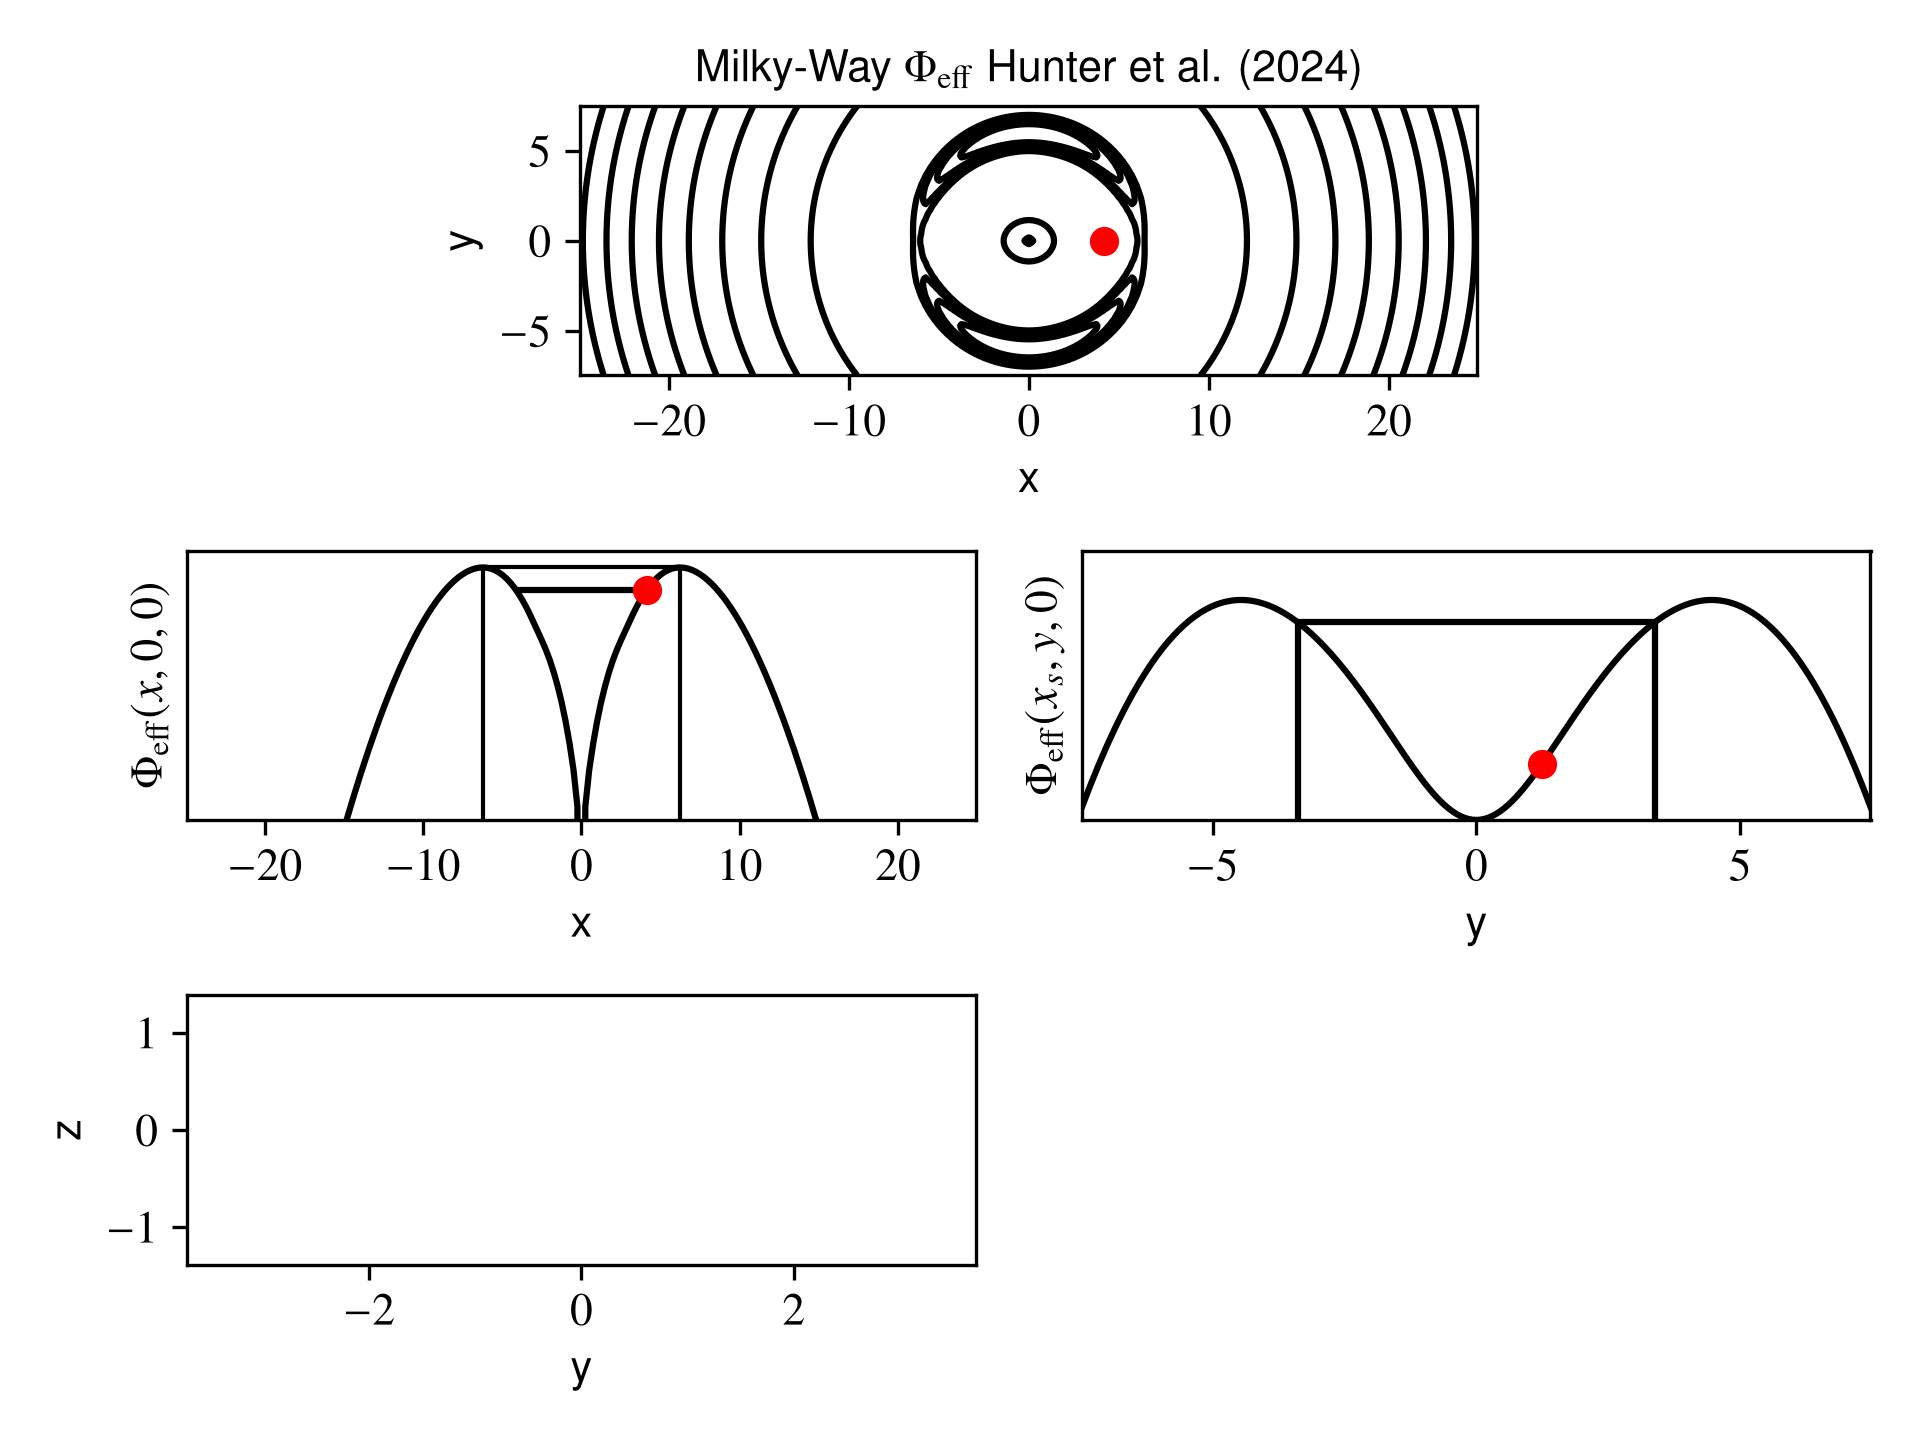
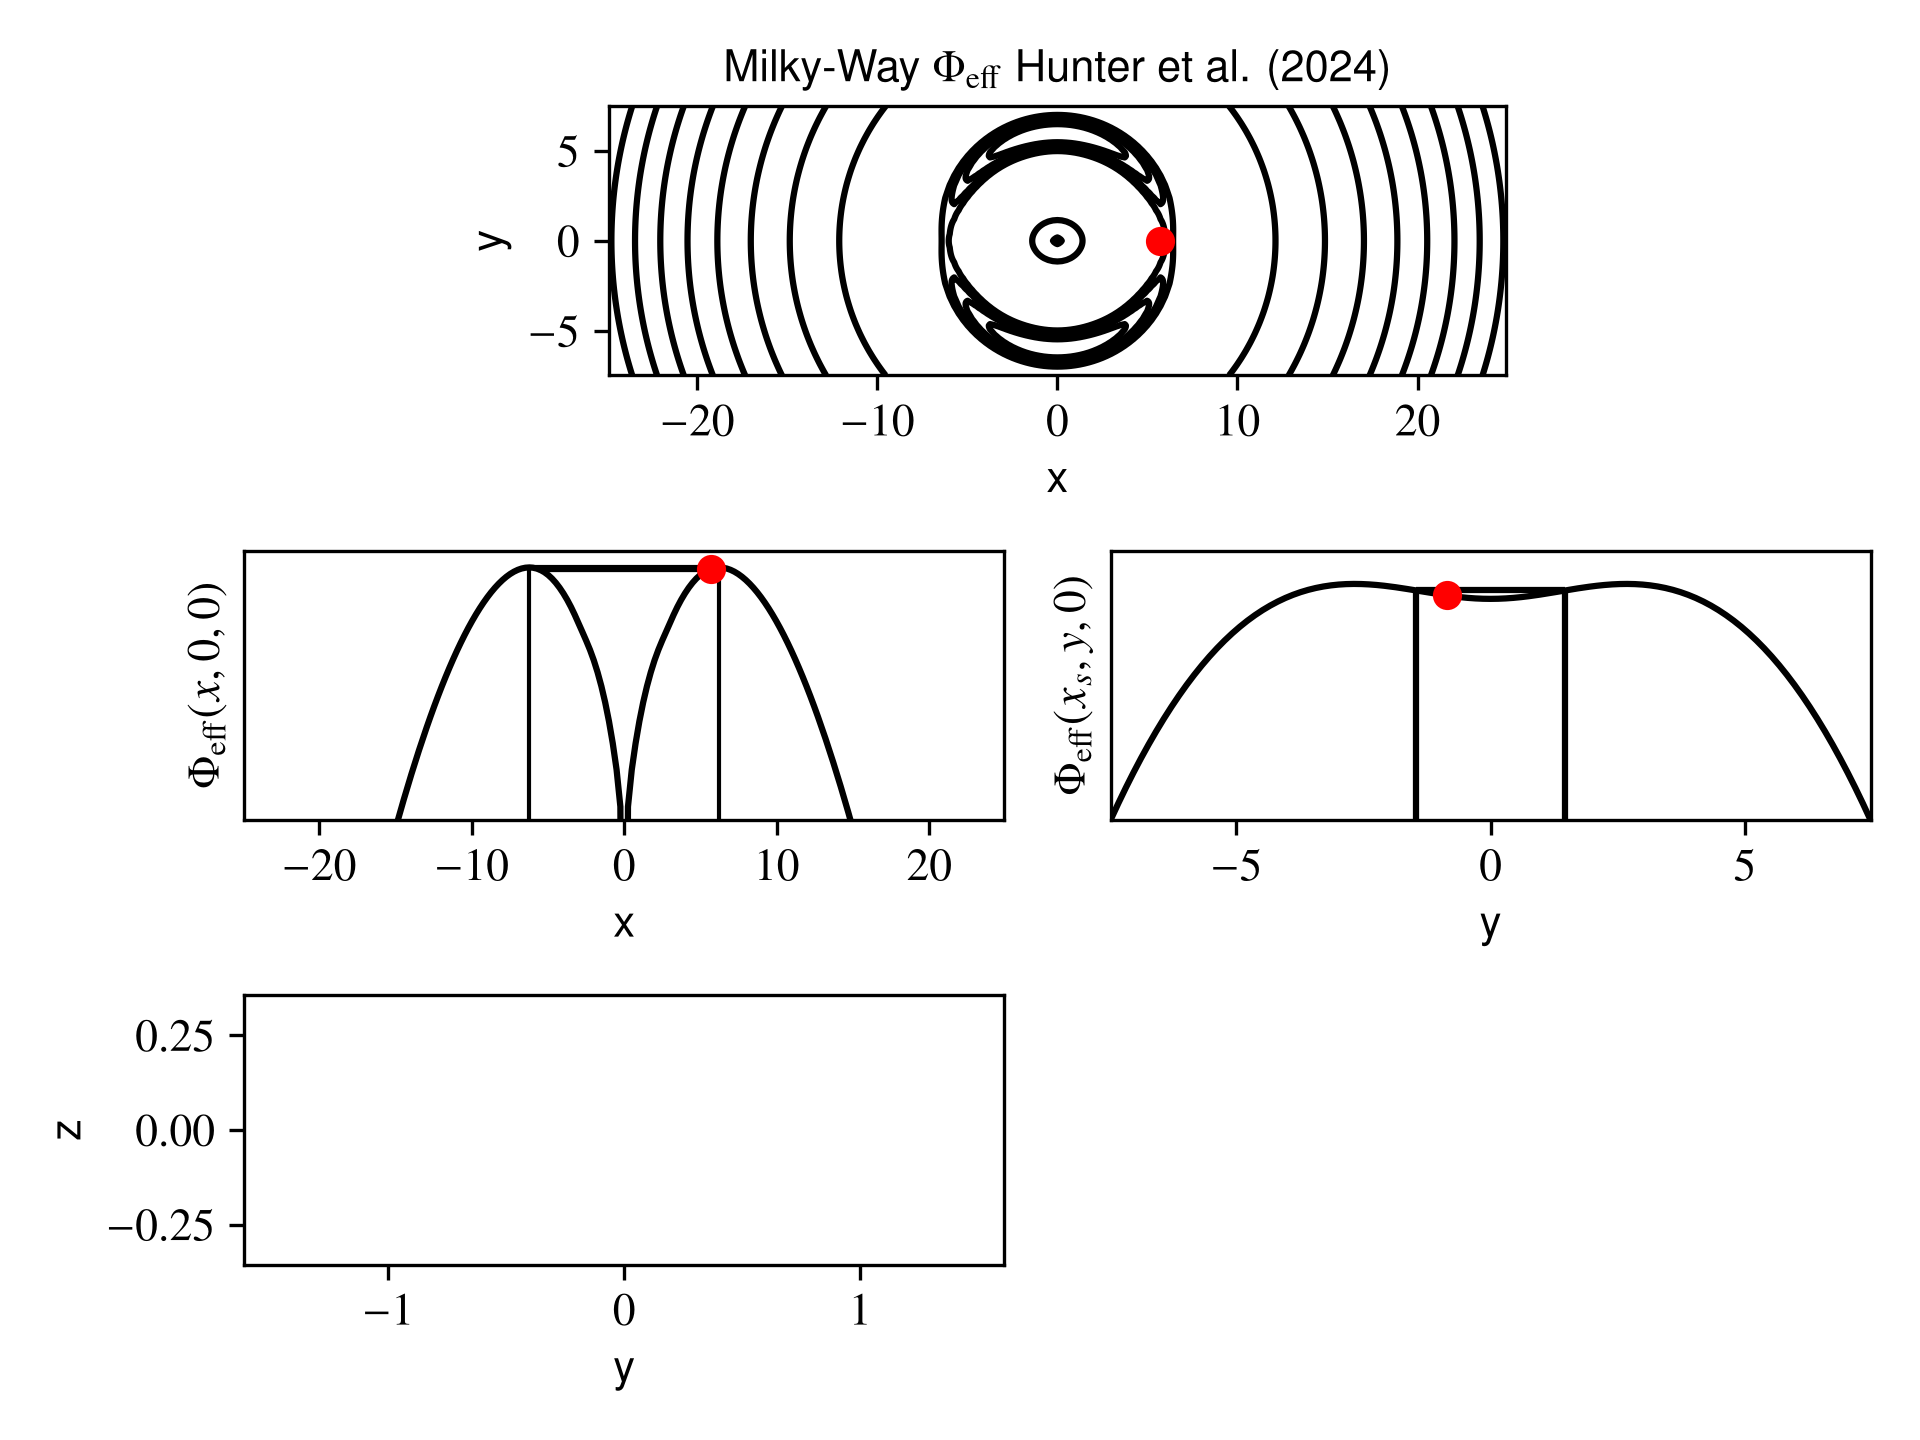
disecting

diff --git a/pedagogy/build_bar_orbit_initial_conditions_demonstration.py b/pedagogy/build_bar_orbit_initial_conditions_demonstration.py
@@ -1,5 +1,5 @@
+import os
 import agama, numpy, matplotlib, matplotlib.pyplot as plt
-from scipy import optimize 
 import hunter2024mwmodel as h2024
 import barframe
 plt.rcParams.update({
@@ -15,26 +15,165 @@ plt.rcParams.update({
 agama.setUnits(length=1, mass=1, velocity=1)
 
 
+def build_total_potential():
+    bar1 = h2024.coleman2020(**h2024.coleman_components)
+    bar2 = h2024.portail_component(**h2024.portail_bar_1)
+    bar3 = h2024.portail_component(**h2024.portail_bar_2)
+    cyl = dict(type='CylSpline', symmetry='triaxial', mmax=8, gridSizeR=40, gridSizeZ=40, Rmin=0.001, Rmax=20, Zmin=0.001, Zmax=20)
+    pbar1 = agama.Potential(density=bar1, **cyl)
+    pbar2 = agama.Potential(density=bar2, **cyl)
+    pbar3 = agama.Potential(density=bar3, **cyl)
+    rest = [agama.Potential(**c) for c in (
+        h2024.supermassiveblackhole, h2024.nsc, h2024.NSD1, h2024.NSD2,
+        h2024.DISK1, h2024.DISK2, h2024.GDISK1, h2024.GDISK2, h2024.EINASTO)]
+    return agama.Potential(pbar1, pbar2, pbar3, *rest)
 
-if __name__=="__main__":
 
-    bar1=h2024.coleman2020(**h2024.coleman_components)
-    bar2=h2024.portail_component(**h2024.portail_bar_1)
-    bar3=h2024.portail_component(**h2024.portail_bar_2)    
-    pbar1   = agama.Potential(type='CylSpline', density=bar1,symmetry='triaxial',mmax=8,gridSizeR=40, gridSizeZ=40, Rmin=0.001, Rmax=20, Zmin=0.001, Zmax=20,)
-    pbar2   = agama.Potential(type='CylSpline', density=bar2,symmetry='triaxial',mmax=8,gridSizeR=40, gridSizeZ=40, Rmin=0.001, Rmax=20, Zmin=0.001, Zmax=20,)
-    pbar3   = agama.Potential(type='CylSpline', density=bar3,symmetry='triaxial',mmax=8,gridSizeR=40, gridSizeZ=40, Rmin=0.001, Rmax=20, Zmin=0.001, Zmax=20,)
-    pbar = pbar1+pbar2+pbar3
+def make_frame_saver(figbasename):
+    os.makedirs(os.path.dirname(figbasename), exist_ok=True)
+    counter = [0]
+    def save(fig):
+        fig.tight_layout()
+        fig.savefig(figbasename.format(counter[0]), dpi=300)
+        counter[0] += 1
+    return save
 
 
-    # the rest of the potetial 
-    psagA   = agama.Potential(**h2024.supermassiveblackhole)
-    pnsc    = agama.Potential(**h2024.nsc)
-    pnsd1   = agama.Potential(**h2024.NSD1,)
-    pnsd2   = agama.Potential(**h2024.NSD2)
-    pdisk1  = agama.Potential(**h2024.DISK1)
-    pdisk2  = agama.Potential(**h2024.DISK2)
-    pgdisk1 = agama.Potential(**h2024.GDISK1)
-    pgdisk2 = agama.Potential(**h2024.GDISK2)
-    phalo   = agama.Potential(**h2024.EINASTO)
-    pot_total=agama.Potential(pbar1,pbar2,pbar3,psagA,pnsc,pnsd1,pnsd2,pdisk1,pdisk2,pgdisk1,pgdisk2,phalo)
+def draw_demonstration(pot_total, omega, seed, figbasename, npoints=201, threshold=1e-3):
+    rng = numpy.random.default_rng(seed)
+    save = make_frame_saver(figbasename)
+
+    # one sample, built step by step with the barframe functions
+    x_l1, e_l1 = barframe.lagrange_l1_energy(pot_total, omega)
+    y_l4 = barframe.yL4(pot_total, omega)
+    e_0 = barframe.pot_eff(pot_total, omega, numpy.array([0.0, 0.0, 0.0]))
+    e_l4 = barframe.pot_eff(pot_total, omega, numpy.array([0, y_l4, 0]))
+
+    x_sample = rng.uniform(-x_l1, x_l1)
+    y_max = barframe.ymax_within_bar(pot_total, omega, x_sample, e_l1, x_l1 / 2)
+    y_sample = rng.uniform(-y_max, y_max)
+    z_max = barframe.zmax_within_bar(pot_total, omega, x_sample, y_sample, e_l1, y_max)
+    z_sample = rng.uniform(-z_max, z_max)
+    availablespeed = barframe.available_speed(pot_total, omega, [x_sample, y_sample, z_sample], e_l1)
+    _, v_sample, theta, phi = barframe.sample_velocity_isotropic(availablespeed, rng)
+
+    # zero velocity curve in the yz-plane at x_sample
+    y_zvc = numpy.linspace(-(1 - threshold) * y_max, (1 - threshold) * y_max, npoints)
+    z_zvc = numpy.array([barframe.zmax_within_bar(pot_total, omega, x_sample, yy, e_l1, y_max) for yy in y_zvc])
+    zvc_y = numpy.concatenate((y_zvc, y_zvc[::-1], [y_zvc[0]]))
+    zvc_z = numpy.concatenate((z_zvc, -z_zvc[::-1], [z_zvc[0]]))
+
+    # contours of the effective potential in the x-y plane
+    xfactor, yfactor = 4, 1.2
+    xs = numpy.linspace(-xfactor * x_l1, xfactor * x_l1, npoints)
+    ys = numpy.linspace(-yfactor * x_l1, yfactor * x_l1, npoints)
+    XS, YS = numpy.meshgrid(xs, ys)
+    pos = numpy.column_stack((XS.flatten(), YS.flatten(), 0 * YS.flatten()))
+    pot_eff = numpy.reshape(barframe.pot_eff(pot_total, omega, pos), XS.shape)
+    contours = numpy.linspace(pot_eff.min(), pot_eff.max(), 10)
+    contours = numpy.sort(numpy.concatenate((contours, numpy.linspace(e_l1 * (1 + .4e-3), e_l4, 5))))
+
+    # slices used to show the x and y sampling
+    phi_x = barframe.pot_eff(pot_total, omega, numpy.column_stack([xs, xs * 0, xs * 0]))
+    phi_x_sample = barframe.pot_eff(pot_total, omega, numpy.array([x_sample, 0, 0]))
+    phi_0 = barframe.pot_eff(pot_total, omega, numpy.array([0.1, 0.1, 0.1]))
+    phi_y_at_x = barframe.pot_eff(pot_total, omega, numpy.column_stack((x_sample * numpy.ones_like(ys), ys, 0 * ys)))
+    phi_y_max_at_x = barframe.pot_eff(pot_total, omega, numpy.array([x_sample, y_max, 0]))
+    phi_y_at_sample = barframe.pot_eff(pot_total, omega, numpy.array([x_sample, y_sample, 0]))
+
+    nrow, ncol = 3, 2
+    fig = plt.figure()
+    gs = matplotlib.gridspec.GridSpec(nrow, ncol, figure=fig)
+    axis = fig.add_subplot(gs[0, :])
+    axes = [[fig.add_subplot(gs[i, j]) for j in range(ncol)] for i in range(1, nrow)]
+    # the last panel is split later into the speed bar and the mollweide
+    axes[1][1].remove()
+    contour1 = axis.contour(XS, YS, pot_eff, levels=contours, colors="k", linestyles="-")
+    axis.set(aspect="equal", xlabel="x", ylabel="y")
+    axes[0][0].set(xlabel="x", ylabel=r"$\Phi_{\mathrm{eff}}(x,0,0)$", yticks=[], xlim=[xs.min(), xs.max()], ylim=[phi_0, (1 - 3e-2) * phi_x.max()])
+    axes[0][1].set(ylabel=r"$\Phi_{\mathrm{eff}}(x_s,y,0)$", yticks=[], xlabel="y", xlim=[ys.min(), ys.max()], ylim=[phi_y_at_x.min(), (1 - 1e-2) * phi_y_at_x.max()])
+    axes[1][0].set(xlabel="y", ylabel="z")
+    # draw once so the empty layout is frame 0, then hide the ZVC and contours until their frame
+    obj, = axes[1][0].plot(zvc_y, zvc_z, color="k")
+    fig.tight_layout()
+    obj.remove()
+    contour1.remove()
+    save(fig)
+
+    axis.contour(XS, YS, pot_eff, levels=contours, colors="k", linestyles="-")
+    axis.set(title=r"Milky-Way $\Phi_{\mathrm{eff}}$ Hunter et al. (2024)")
+    save(fig)
+
+    axes[0][0].plot(xs, phi_x, color="k")
+    save(fig)
+
+    # the box that x_sample is drawn from
+    axes[0][0].hlines(e_l1, -x_l1, x_l1, color="k", linewidth=1)
+    axes[0][0].vlines([-x_l1, x_l1], e_0, e_l1, color="k", linewidth=1)
+    save(fig)
+
+    axes[0][0].scatter(x_sample, phi_x_sample, color="r", zorder=10)
+    axes[0][0].hlines(phi_x_sample, -numpy.abs(x_sample), numpy.abs(x_sample), color="k")
+    save(fig)
+
+    mydot = axis.scatter(x_sample, 0, color="r", zorder=10)
+    save(fig)
+
+    axes[0][1].plot(ys, phi_y_at_x, color="k")
+    save(fig)
+
+    axes[0][1].vlines([-y_max, y_max], phi_y_at_x.min(), phi_y_max_at_x, color="k")
+    axes[0][1].hlines(e_l1, -y_max, y_max, color="k")
+    save(fig)
+
+    axes[0][1].scatter([y_sample], [phi_y_at_sample], zorder=10, color="r")
+    save(fig)
+
+    mydot.remove()
+    axis.scatter([x_sample], [y_sample], zorder=10, color="r")
+    save(fig)
+
+    axes[1][0].set(title=r"Zero Velocity Curve at $x_s$", aspect="equal")
+    axes[1][0].plot(zvc_y, zvc_z, color="k")
+    save(fig)
+
+    axes[1][0].scatter(y_sample, z_sample, color="r")
+    save(fig)
+
+    # nested grid: mollweide (2/3) beside a skinny speed bar (1/3)
+    gs_vel = matplotlib.gridspec.GridSpecFromSubplotSpec(1, 2, subplot_spec=gs[2, 1], width_ratios=[2, 1], wspace=-0.35)
+    axis_speed = fig.add_subplot(gs_vel[0, 1])
+    axis_speed.axis("off")
+    eventplot, = axis_speed.eventplot([0, availablespeed], orientation="vertical", color="k")
+    save(fig)
+
+    axis_speed.text(1, (1 + 5e-2) * availablespeed, s=r"$v_{\mathrm{available}}$", va="bottom", ha="center")
+    save(fig)
+
+    axis_speed.text(1, -(1e-1), s=r"$v=0$", va="top", ha="center")
+    save(fig)
+
+    eventplot.remove()
+    axis_speed.eventplot([0, v_sample, availablespeed], orientation="vertical", color="k")
+    axis_speed.text(1.5, v_sample, s=r"$v_{\mathrm{s}}$", va="center")
+    save(fig)
+
+    axis_angle = fig.add_subplot(gs_vel[0, 0], projection="mollweide")
+    axis_angle.grid(True)
+    axis_angle.set_xticklabels([])
+    axis_angle.set_yticklabels([])
+    save(fig)
+
+    axis_angle.set(title="Isotropic angle")
+    save(fig)
+
+    # mollweide latitude is pi/2 - theta
+    axis_angle.plot(phi, numpy.pi / 2 - theta, "o", color="k")
+    save(fig)
+    return fig
+
+
+if __name__ == "__main__":
+    omega = -37.5
+    pot_total = build_total_potential()
+    draw_demonstration(pot_total, omega, seed=10, figbasename="plots/bar_init_conds/bar_init_conds_fig_frame_{:03d}.png")

diff --git a/pedagogy/barframe.py b/pedagogy/barframe.py
@@ -81,3 +81,88 @@ def sample_initial_conditions_allowed_within_bar(potential,omega,Ej,norbits=50,s
         k+=1
     return initial_conditions
 
+
+
+# --- initial conditions throughout the bar interior, bounded by the L1 jacobi energy ---
+
+def lagrange_l1_energy(pot, omega, xmin=0.1, xmax=20):
+    """Return (x_L1, E_L1): the L1 location and its effective potential."""
+    myxL1 = xL1(pot, omega, xmin=xmin, xmax=xmax)
+    return myxL1, float(pot_eff(pot, omega, np.array([myxL1, 0.0, 0.0])))
+
+def ymax_within_bar(pot, omega, x, EL1, y_start):
+    """Largest |y| in the z=0 plane, at fixed x, with pot_eff <= EL1 (connected to the origin)."""
+    x = abs(x)
+    # the potential ridge in y bounds the bracket, since pot_eff is not monotonic in y
+    ridge = optimize.minimize(lambda y: -float(pot_eff(pot, omega, np.array([x, y[0], 0.0]))), y_start).x[0]
+    return float(optimize.brentq(lambda y: pot_eff(pot, omega, np.array([x, y, 0.0])) - EL1, 0, ridge))
+
+def zmax_within_bar(pot, omega, x, y, EL1, ymax):
+    """Largest |z| at fixed (x, y) with pot_eff <= EL1; ymax is used as the upper bracket."""
+    return float(optimize.brentq(lambda z: pot_eff(pot, omega, np.array([x, y, z])) - EL1, 0, ymax))
+
+def available_speed(pot, omega, pos, EL1):
+    """Speed at which the kinetic energy equals EL1 - pot_eff(pos)."""
+    return float(np.sqrt(max(-2 * (pot_eff(pot, omega, np.asarray(pos, dtype=float)) - EL1), 0.0)))
+
+def sample_velocity_isotropic(vmax, rng):
+    """
+    Uniform in the 3D velocity ball of radius vmax: p(v) ~ v^2, direction isotropic.
+    Returns (velocity vector, v, theta, phi) with theta the polar angle in [0, pi].
+    """
+    v = vmax * rng.uniform() ** (1 / 3)
+    theta = np.arccos(rng.uniform(-1, 1))
+    phi = rng.uniform(-np.pi, np.pi)
+    vec = v * np.array([np.sin(theta) * np.cos(phi), np.sin(theta) * np.sin(phi), np.cos(theta)])
+    return vec, v, theta, phi
+
+def _position_weight(pot, omega, pos, EL1, weighting, ymax, zmax):
+    # correct the sequential density 1/(ymax*zmax) (and optionally the velocity-ball volume)
+    w = ymax * zmax
+    if weighting == "phase_space":
+        w *= available_speed(pot, omega, pos, EL1) ** 3
+    return w
+
+def _weight_envelope(pot, omega, xl1, EL1, weighting, ngrid=64, safety=1.2):
+    # estimated on the y=z=0 line; samples whose weight exceeds the envelope are clipped
+    best = 0.0
+    for x in np.linspace(-xl1, xl1, ngrid + 2)[1:-1]:
+        ymax = ymax_within_bar(pot, omega, x, EL1, xl1 / 2)
+        zmax = zmax_within_bar(pot, omega, x, 0.0, EL1, ymax)
+        best = max(best, _position_weight(pot, omega, np.array([x, 0.0, 0.0]), EL1, weighting, ymax, zmax))
+    return safety * best
+
+def sample_position_within_bar(pot, omega, rng, xl1, EL1, weighting="none", envelope=None):
+    """
+    Sequential draw: x in [-xL1, xL1], then y in +-ymax(x), then z in +-zmax(x, y).
+    weighting: "none" keeps that draw, "volume" makes positions uniform in volume,
+    "phase_space" also weights by the available velocity-ball volume.
+    """
+    if weighting not in ("none", "volume", "phase_space"):
+        raise ValueError(f"unknown weighting {weighting!r}")
+    if weighting != "none" and envelope is None:
+        envelope = _weight_envelope(pot, omega, xl1, EL1, weighting)
+    while True:
+        x = rng.uniform(-xl1, xl1)
+        ymax = ymax_within_bar(pot, omega, x, EL1, xl1 / 2)
+        y = rng.uniform(-ymax, ymax)
+        zmax = zmax_within_bar(pot, omega, x, y, EL1, ymax)
+        z = rng.uniform(-zmax, zmax)
+        pos = np.array([x, y, z])
+        if weighting == "none":
+            return pos
+        w = _position_weight(pot, omega, pos, EL1, weighting, ymax, zmax)
+        if rng.uniform() < min(1.0, w / envelope):
+            return pos
+
+def sample_phase_space_within_bar(pot, omega, norbits=50, seed=10, weighting="none"):
+    """Return (norbits, 6) array of [x, y, z, vx, vy, vz] bounded by the L1 jacobi energy."""
+    rng = np.random.default_rng(seed=seed)
+    xl1, EL1 = lagrange_l1_energy(pot, omega)
+    envelope = None if weighting == "none" else _weight_envelope(pot, omega, xl1, EL1, weighting)
+    ics = np.zeros((norbits, 6))
+    for k in range(norbits):
+        pos = sample_position_within_bar(pot, omega, rng, xl1, EL1, weighting, envelope)
+        vec, *_ = sample_velocity_isotropic(available_speed(pot, omega, pos, EL1), rng)
+        ics[k] = np.concatenate([pos, vec])
+    return ics
